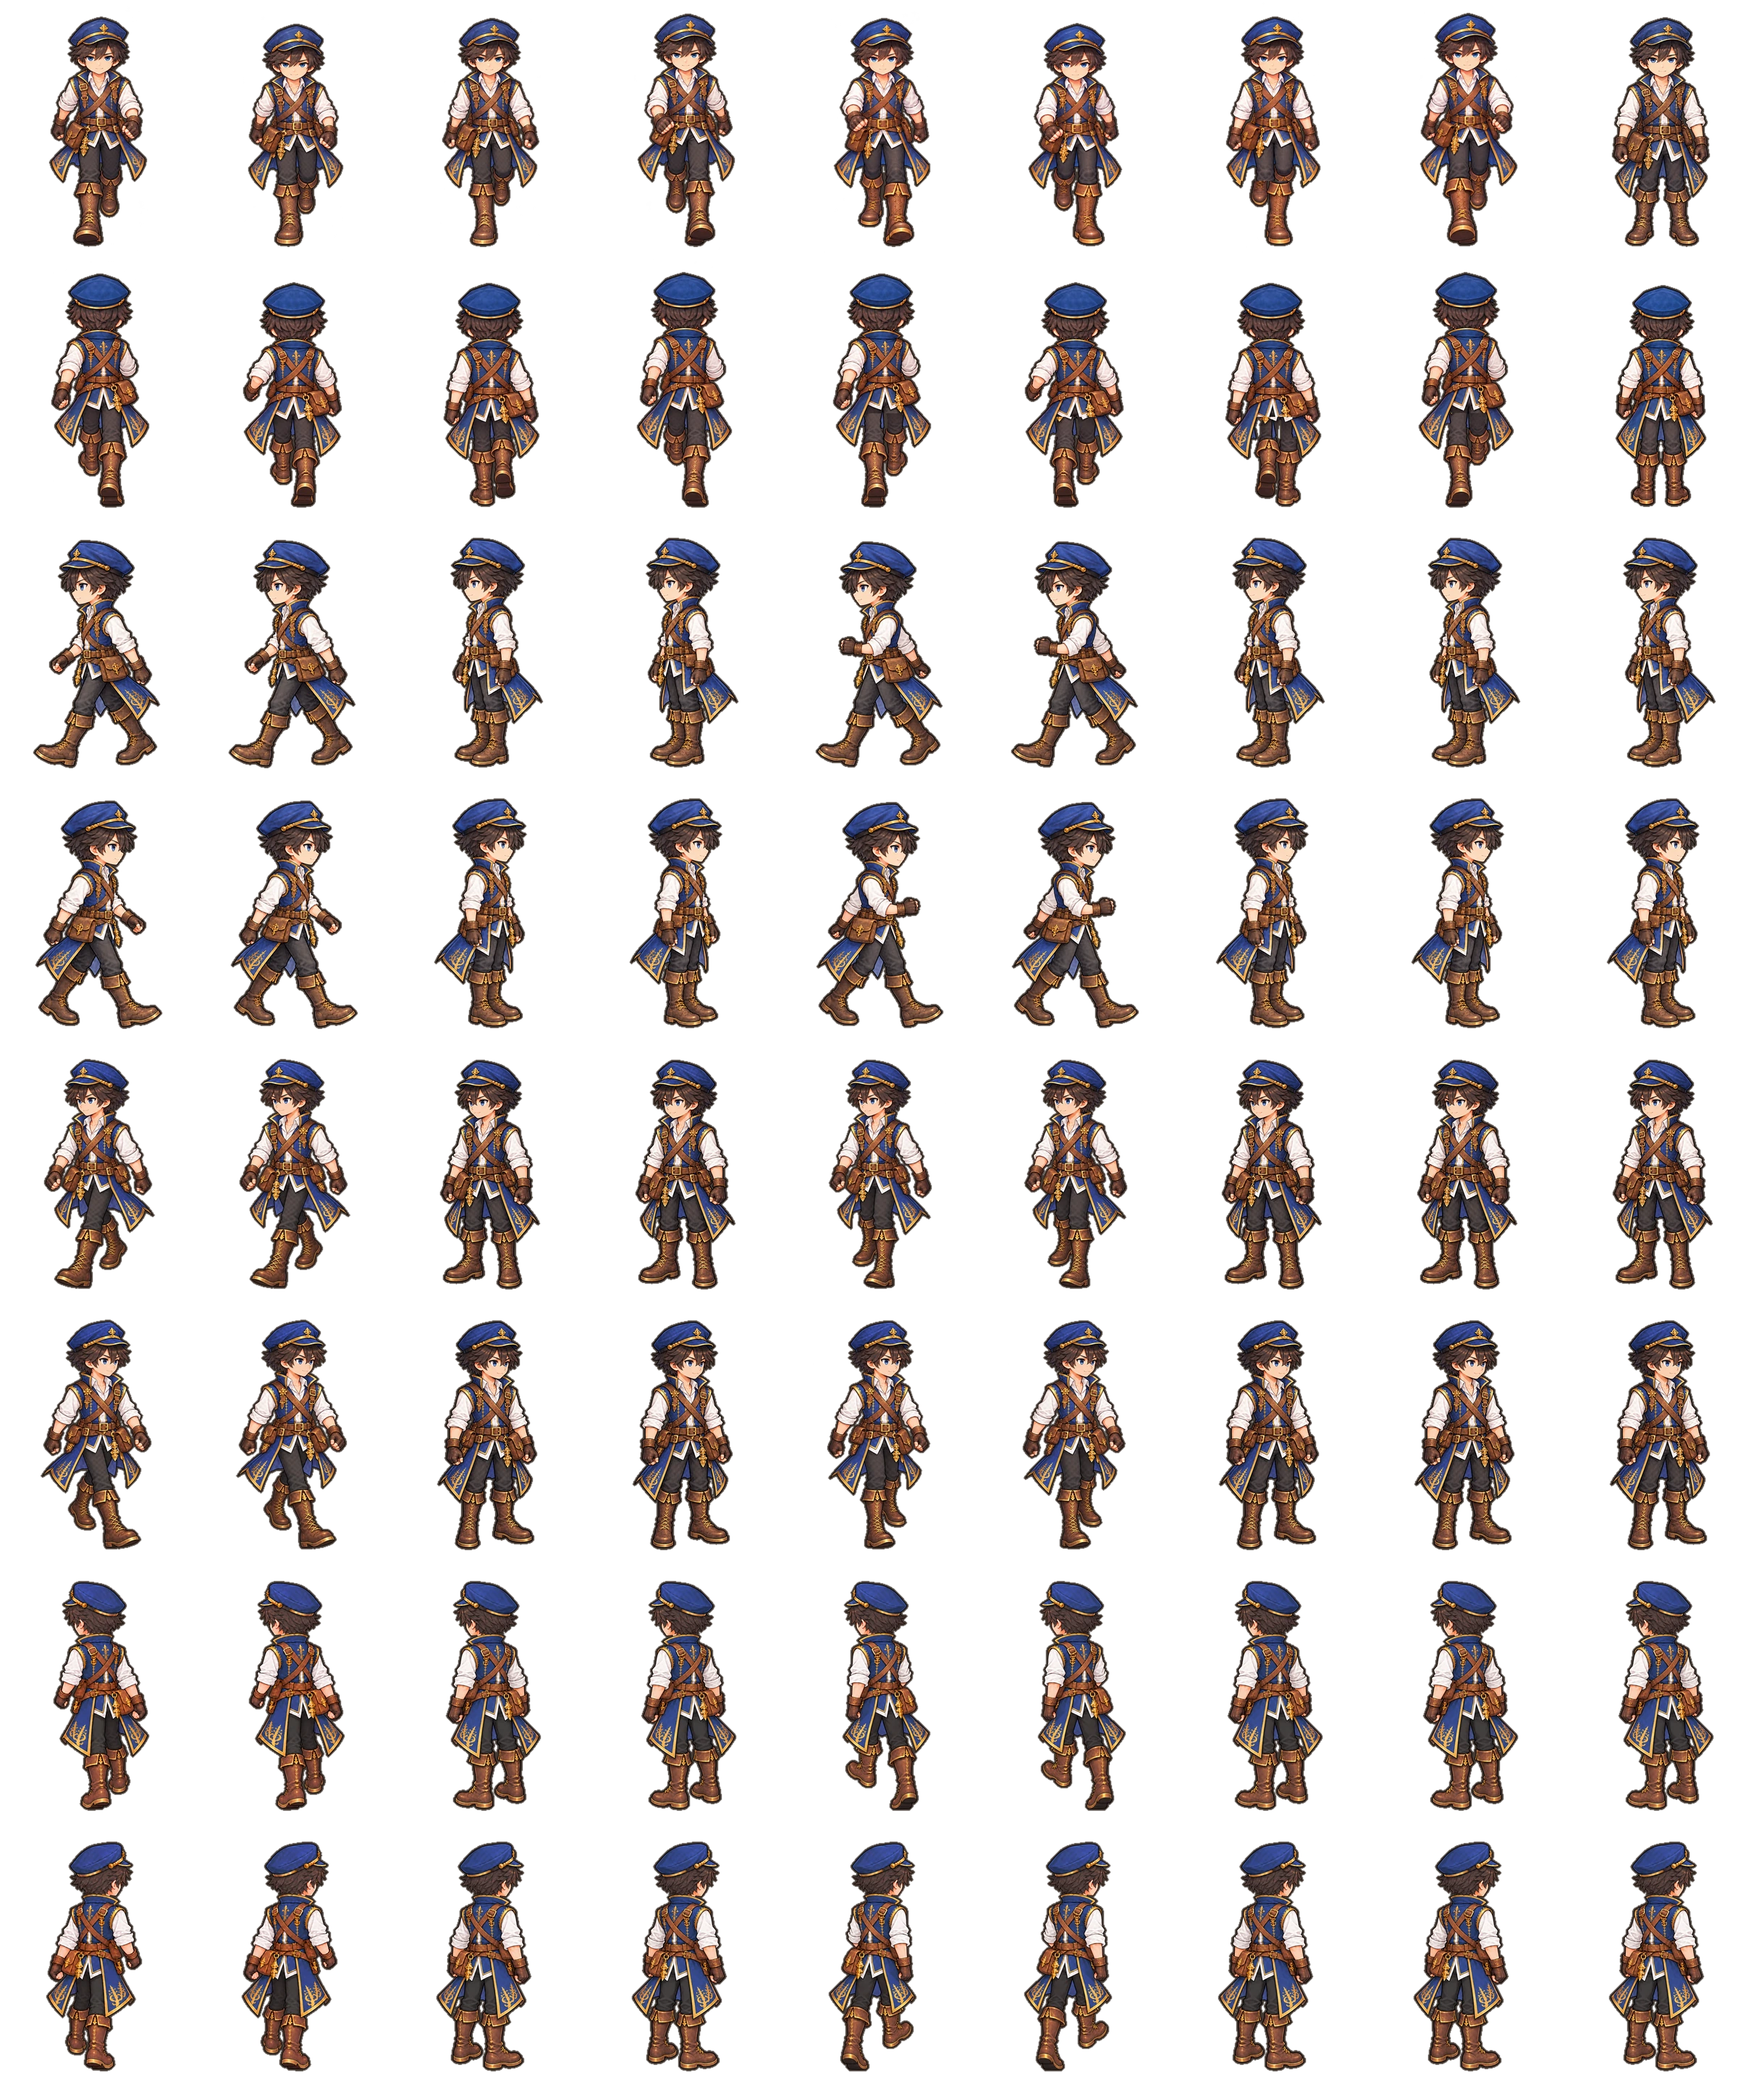
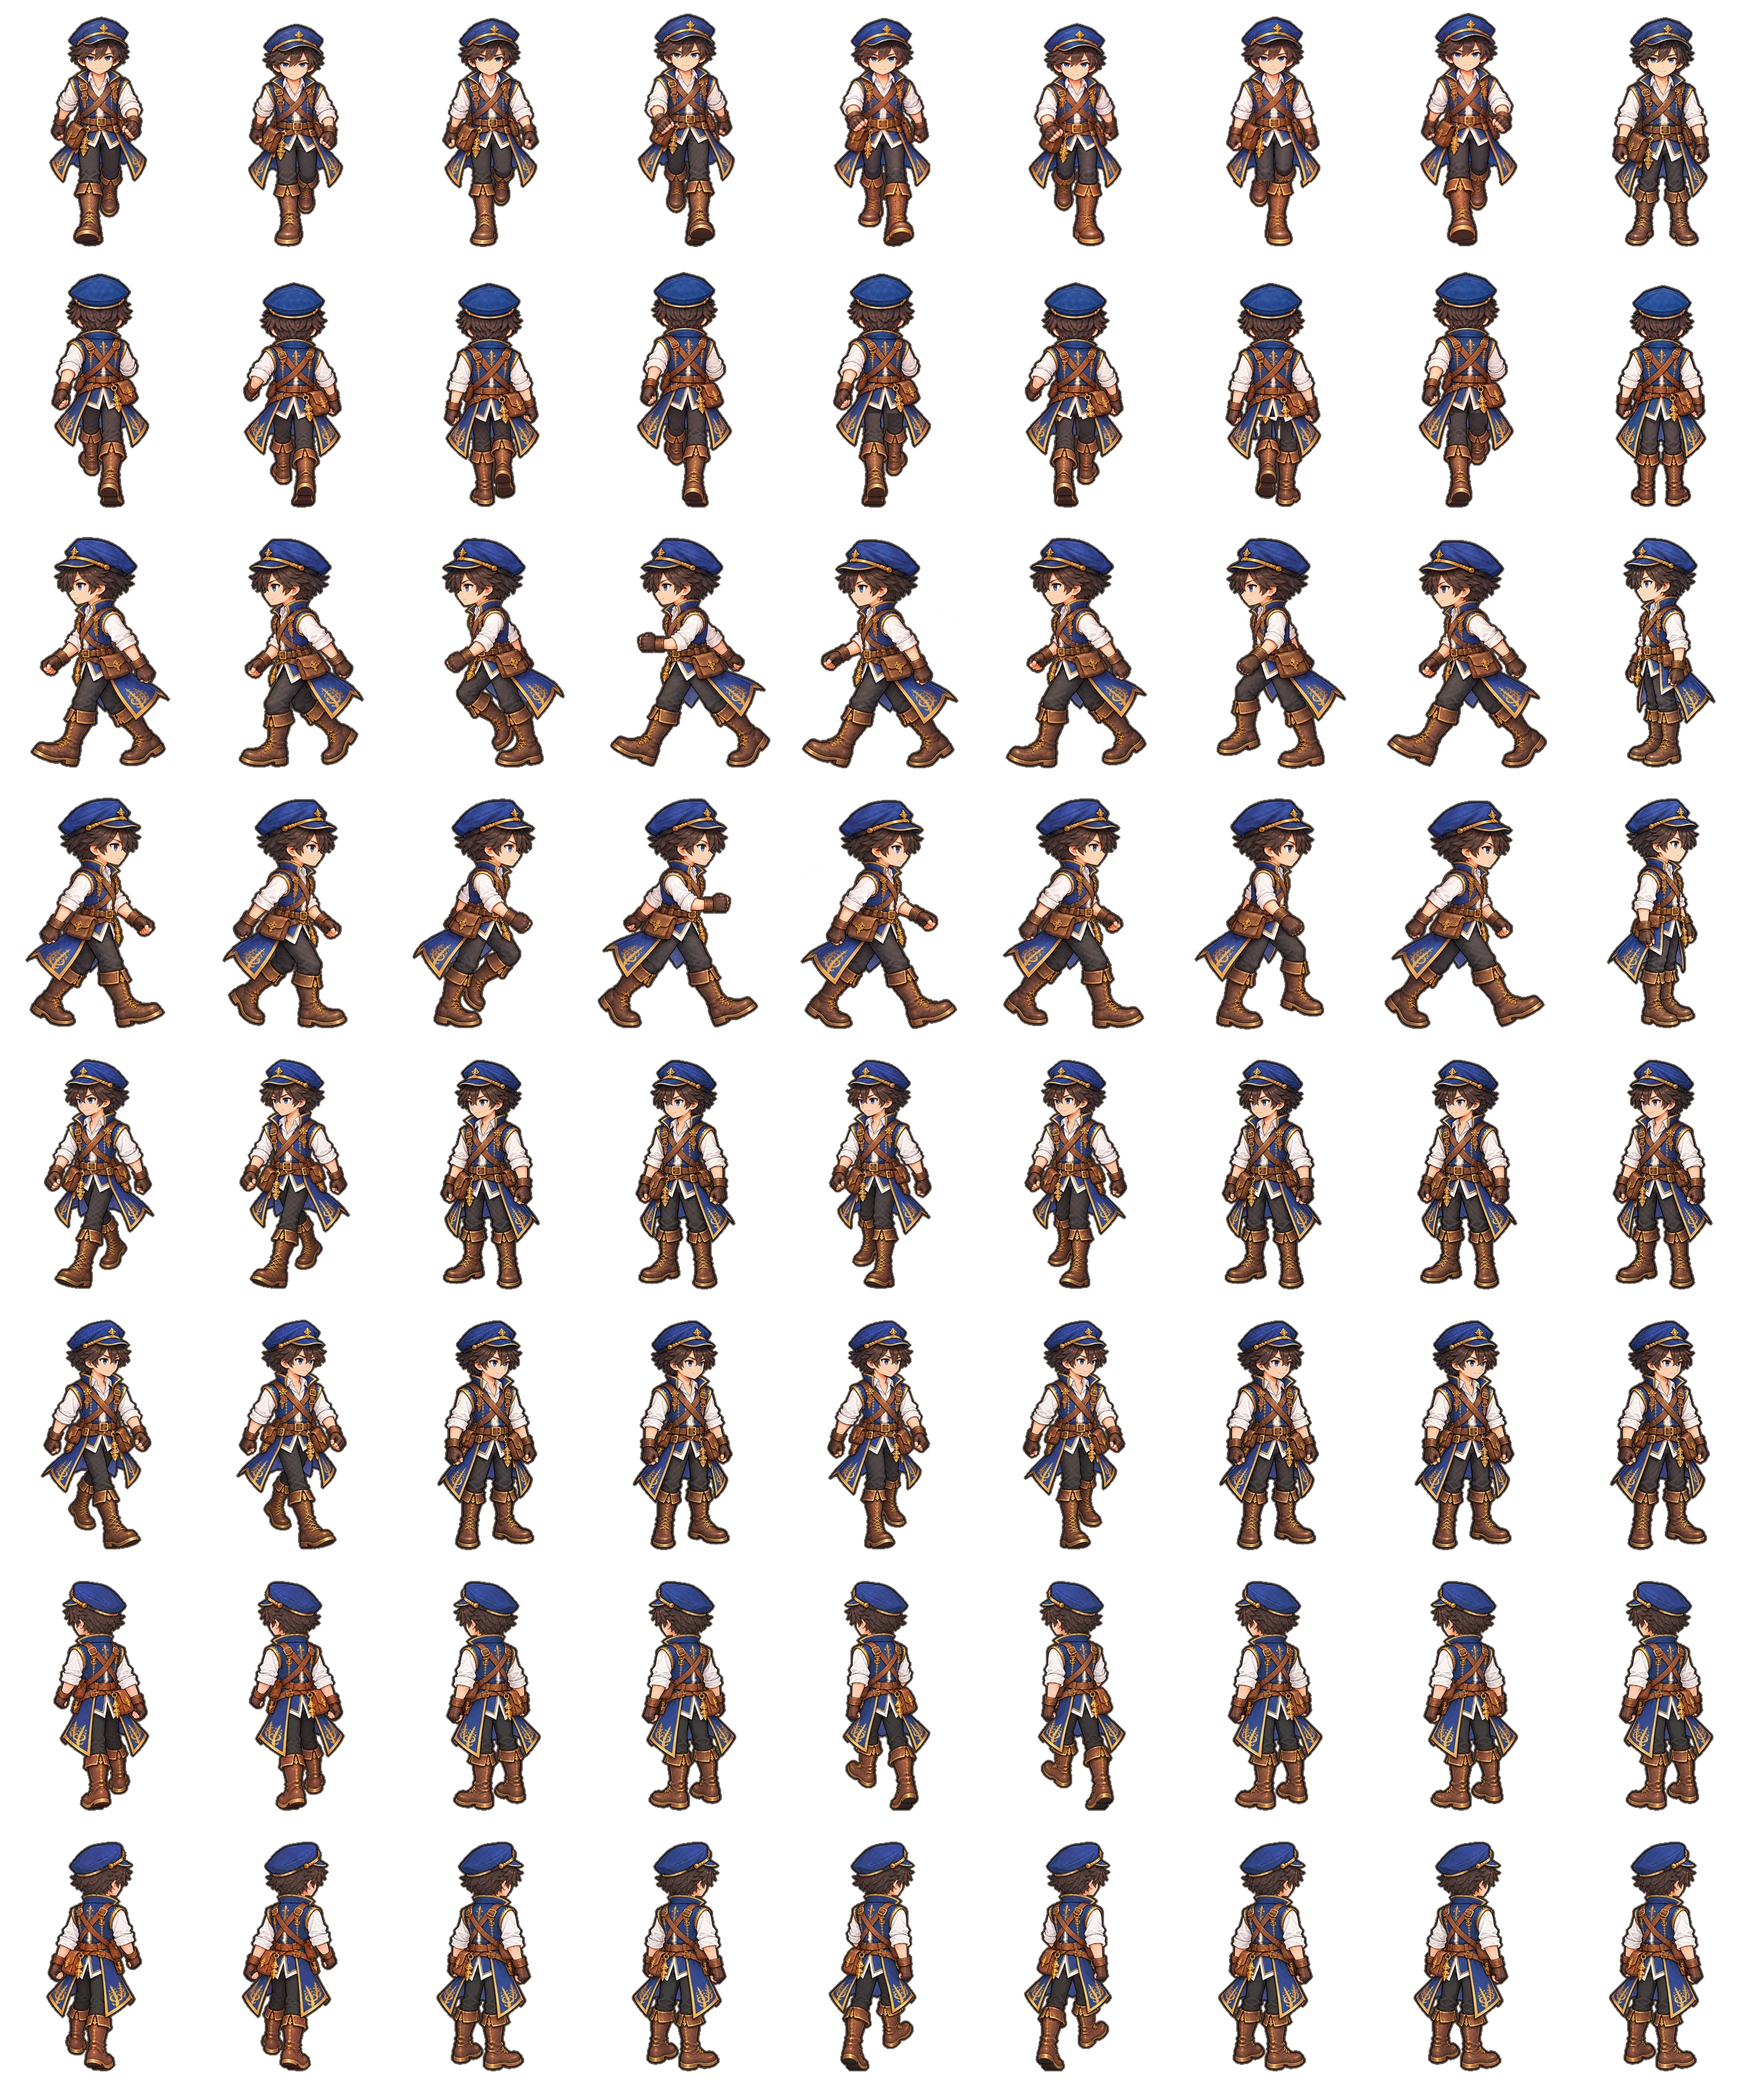
主人公（男性）の左向き・右向きの歩きを1周8コマに
1枚に8ポーズの絵（redo8）を上下の段で切って使う。右向きはその反転。
背中の8ポーズの絵は足の順番がそろっていないため保管のみ。

Claude-Session: https://claude.ai/code/session_017WQbmD1PjqFYPU1QptgkxD

diff --git a/src/ui/screens/worldScreen.ts b/src/ui/screens/worldScreen.ts
@@ -245,7 +245,7 @@ const IDLE_COL = 8;
  * 第2版の絵（体の上下まで描いてある）が入っている行。この行では、プログラムで付ける体の縮み・影の動きをやめる（絵と二重になるため）。
  * 第2版の絵が届いたらここに行を足す（行の番号は DIR_ROW・DIAG_ROW）
  */
-const PLAYER_V2_ROWS: Readonly<Record<'male' | 'female', ReadonlySet<number>>> = { male: new Set([0, 1]), female: new Set() };
+const PLAYER_V2_ROWS: Readonly<Record<'male' | 'female', ReadonlySet<number>>> = { male: new Set([0, 1, 2, 3]), female: new Set() };
 
 /** 人の歩行の絵（4列×4行。2026-10-23 の大人の絵。tools/art/adult_walk_build.py --npc が作る） */
 const NPC_SHEET: Readonly<Record<NpcId, string>> = {

diff --git a/docs/handoff.md b/docs/handoff.md
@@ -10,7 +10,7 @@
 | アプリのアイコン | 2026-10-23 に新しい正式アイコンへ差し替え（原本 `assets/images/icons/sacred-monsters-bc-official-icon-v2.png`。作り方は `assets/README.md`）。タイトル画面のアイコンも同じ |
 | 公開URL | https://shunyamita0804-source.github.io/sacred-monsters-battle-card/ （`main` の `199853b` を公開。2026-10-24・ユーザーの「公開して」による。男性主人公の正面の歩き1周8コマが公開版に入っていることを確認）。旧URL（…/mirtill-monsters-battle-card/）は 404 |
 | リポジトリ | https://github.com/shunyamita0804-source/sacred-monsters-battle-card （Public。2026-10-22 ユーザーが改名。旧名 mirtill-monsters-battle-card） |
-| 最新版 | `main`（公開した `199853b`＋このメモ）。テスト 351件。作業ブランチ `claude/new-session-flx5dv` は main の先：**男性主人公の背中の歩きも1周8コマ**（2枚目は画像AIの絵が1枚目とほぼ同じだったため、1枚目のズボンとブーツだけを左右反転してコートの後ろに描いた。`tools/art/back_walk_swap_legs.py`）。未公開。**左向き（＝右向き）は未完了**：1周8ポーズを1枚に描いてもらう依頼一式を用意（`docs/design/motion-v2-20261024/redo8/`。背中も描き直しをおすすめ）。届いたら `PLAYER_V2_ROWS` に 2・3 行を足す |
+| 最新版 | `main`（公開した `199853b`＋このメモ）。テスト 351件。作業ブランチ `claude/new-session-flx5dv` は main の先（未公開）：**男性主人公の背中・左向き・右向きの歩きも1周8コマ**。背中＝1枚目の絵のズボンとブーツだけを左右反転した2枚目（`tools/art/back_walk_swap_legs.py`）。左向き＝1枚に8ポーズの絵（`docs/design/motion-v2-20261024/redo8/`）をそのまま使用（右向きはその反転）。ただし左向きは上下の段とも「手前の足が前」の1歩で、足の手前・奥は入れ替わっていない（小さく見るぶんには目立たない）。背中の8ポーズの絵（`motion-v2/player_male_back_walk8_try1.png`）は足の順番がそろっていないので使っていない。残り：斜め・走り・女性 |
 | 公開する版 | `main`。作業はブランチで行い、確認後に `main` へマージしてから公開する |
 | 本編 | `mystic-monsters`（育成ゲーム本編）は**変更禁止**。素材の利用だけ許可済み（読み取りのみ） |
 | バトルのルール | **PS版『モンスターファーム バトルカード』準拠。変えるのは3点だけ**：山札60枚・ガッツを「マナ」と表記・全体カードとブリーダー（プレイヤー）カードを「サポート」に集約（ユーザー決定。`docs/battle-rules.md`） |
